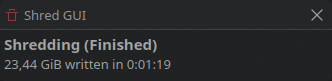
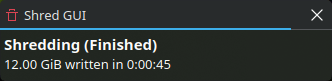
Screenshots: the Plasma notification again
Taken on the desktop with the current build: the running job with
Details expanded and the finished one; the summary lines now come in
the English number format. The README examples match the new images.

diff --git a/README.md b/README.md
@@ -253,7 +253,7 @@ While shredding runs, its progress is also shown
   the application reads how much the running shred process has written (`wchar` in
   `/proc/<pid>/io`, a few microseconds per read); the speed is taken over the last 3 seconds, so it
   drops while shred syncs the data to the disk after each pass. When the job ends, the notification
-  shows a summary ("2,73 GiB written in 0:00:10", "Cancelled after …" or the error).
+  shows a summary ("12.00 GiB written in 0:00:45", "Cancelled after …" or the error).
 
 On other desktops or without a session bus this does nothing.
 
